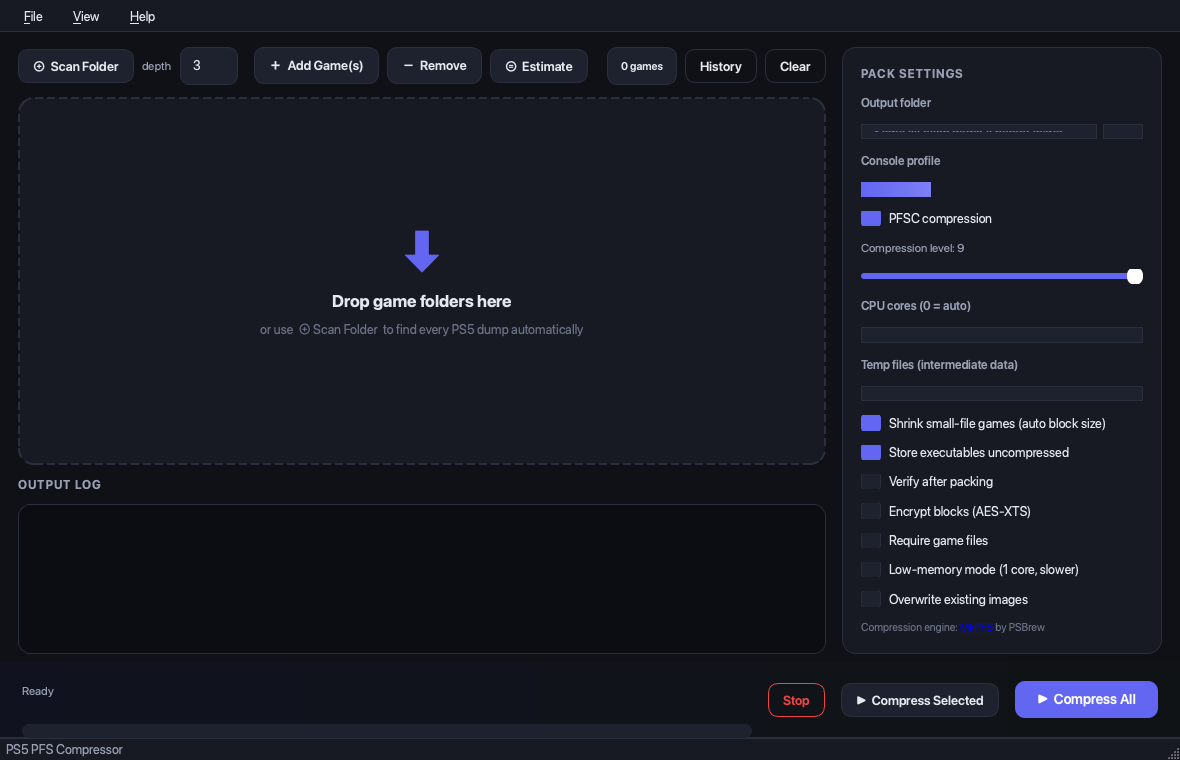
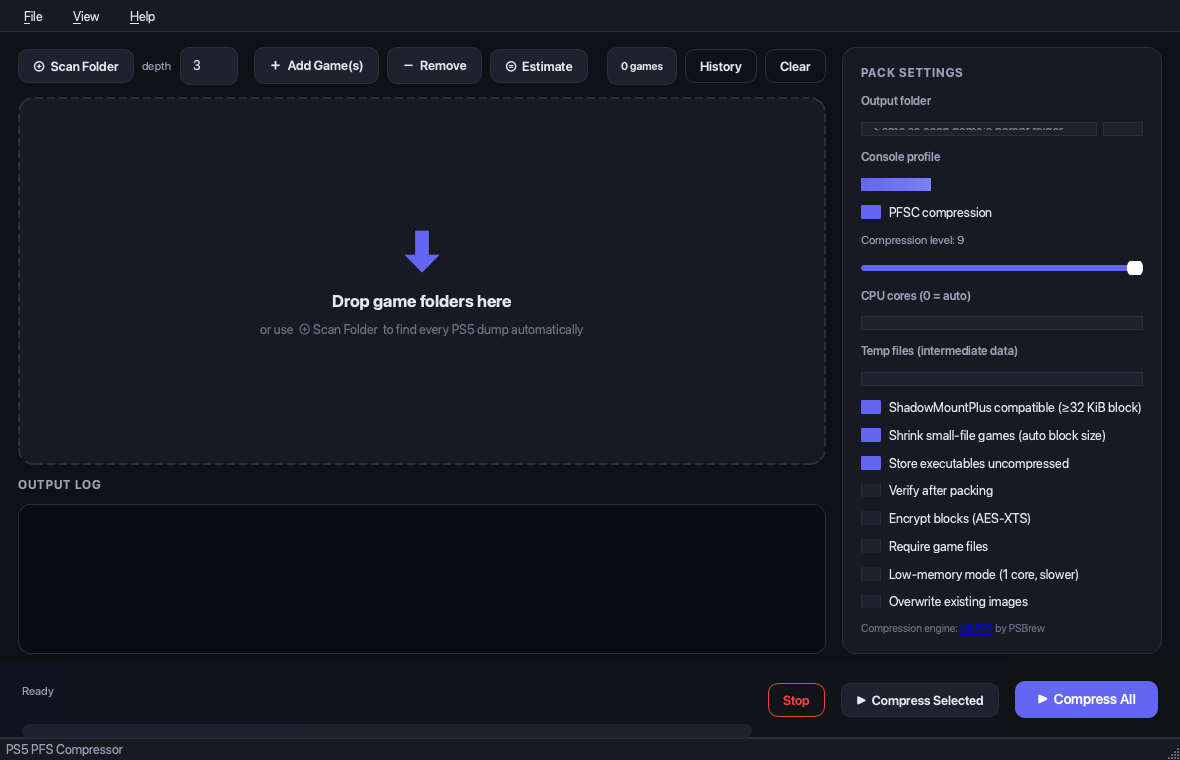
PS5 compressor: add ShadowMountPlus-compatible option (on by default)
ShadowMountPlus rejects PFS images whose cluster size is below its
configured lvd_pfs_sector_size (recommended default 32768). Auto-fit can
pick a smaller block (4 KiB for tiny-file games like Minecraft), which
needs an autotune round-trip to mount.

- New "ShadowMountPlus compatible (>=32 KiB block)" checkbox, ON by
  default, forces a 32 KiB block so images mount cleanly under
  ShadowMountPlus. It overrides auto-fit (which is greyed out while on).
- PackSettings.shadowmount_compatible + build_command block-size logic.
- Estimator respects the block floor so the pre-flight size matches what
  SMP mode actually produces; the auto-fit nudge is suppressed in SMP mode.
- Verified end-to-end on the real Minecraft dump: 32768-block image,
  PS5 profile, 0 errors/warnings, correct root layout.
- README, release notes and compressor screenshot updated. Version unchanged.

Changed region(s): [[0.7322, 0.4539, 0.9763, 0.8474], [0.7322, 0.0908, 0.9763, 0.4237]]

diff --git a/playstation_studio/ps5_compressor/compressor_tab.py b/playstation_studio/ps5_compressor/compressor_tab.py
@@ -20,7 +20,7 @@ from PySide6.QtWidgets import (
 
 from .estimate import Estimate, EstimatorThread, compression_rating
 from . import history
-from .jobs import Job, PackSettings, Status, find_game_dirs
+from .jobs import Job, PackSettings, Status, find_game_dirs, SHADOWMOUNT_MIN_BLOCK
 from .runner import BatchRunner
 from ..shared.config import config
 from ..shared.diskutil import (
@@ -272,11 +272,25 @@ class Ps5CompressTab(QWidget):
         self._sync_temp_row()
 
         # toggles
+        # ShadowMountPlus compatibility: force a >= 32 KiB block so images mount
+        # cleanly under ShadowMountPlus. On by default.
+        self.cb_shadowmount = QCheckBox("ShadowMountPlus compatible (≥32 KiB block)")
+        self.cb_shadowmount.setToolTip(
+            "Build PFS images that mount cleanly under ShadowMountPlus.\n"
+            f"Forces a {SHADOWMOUNT_MIN_BLOCK // 1024} KiB block size (ShadowMountPlus "
+            "rejects smaller clusters on its default config).\n"
+            "Turn off only if you don't use ShadowMountPlus and want the smallest "
+            "possible image for games with thousands of tiny files.")
+        self.cb_shadowmount.setChecked(
+            bool(config.get(CFG, "shadowmount_compatible", True)))
+        self.cb_shadowmount.toggled.connect(self._on_shadowmount_toggle)
+
         self.cb_autoblock = QCheckBox("Shrink small-file games (auto block size)")
-        self.cb_autoblock.setToolTip(
+        self._autoblock_tip = (
             "Pick the block size that minimises per-file padding. Games with "
             "thousands of tiny files (e.g. Minecraft) can otherwise pack LARGER "
             "than the original because each file is padded to a 64 KiB block.")
+        self.cb_autoblock.setToolTip(self._autoblock_tip)
         self.cb_autoblock.setChecked(bool(config.get(CFG, "auto_block_size", True)))
         self.cb_autoblock.toggled.connect(
             lambda on: config.set(CFG, "auto_block_size", on))
@@ -292,10 +306,12 @@ class Ps5CompressTab(QWidget):
         self.cb_lowmem.toggled.connect(
             lambda on: config.set(CFG, "low_memory", on))
         self.cb_overwrite = QCheckBox("Overwrite existing images")
-        for cb in (self.cb_autoblock, self.cb_skipexec, self.cb_verify,
-                   self.cb_encrypt, self.cb_require, self.cb_lowmem,
-                   self.cb_overwrite):
+        for cb in (self.cb_shadowmount, self.cb_autoblock, self.cb_skipexec,
+                   self.cb_verify, self.cb_encrypt, self.cb_require,
+                   self.cb_lowmem, self.cb_overwrite):
             lay.addWidget(cb)
+        # auto-fit is overridden while ShadowMountPlus mode is on
+        self._on_shadowmount_toggle(self.cb_shadowmount.isChecked())
 
         lay.addStretch(1)
         credit = QLabel('Compression engine: <a href="https://github.com/PSBrew/MkPFS">'
@@ -529,7 +545,12 @@ class Ps5CompressTab(QWidget):
         self.btn_estimate.setEnabled(False)
         self.status_lbl.setText("Estimating sizes…")
         self._log("Estimating packed sizes (reading file sizes only)…\n")
-        self._estimator = EstimatorThread([j.source_dir for j in self.jobs], self)
+        # In ShadowMountPlus mode the block can't go below 32 KiB, so estimate
+        # the footprint the pack will actually produce.
+        min_block = (SHADOWMOUNT_MIN_BLOCK if self.cb_shadowmount.isChecked()
+                     else 4096)
+        self._estimator = EstimatorThread(
+            [j.source_dir for j in self.jobs], min_block, self)
         self._estimator.one.connect(self._on_estimate_one)
         self._estimator.finished_all.connect(self._on_estimate_done)
         self._estimator.start()
@@ -559,8 +580,10 @@ class Ps5CompressTab(QWidget):
         self.status_lbl.setText(msg)
         self._log(msg + ".\n")
         self._refresh_stats()
-        # Nudge the user to keep auto-fit on when it clearly helps.
-        if bloat and not self.cb_autoblock.isChecked():
+        # Nudge the user to keep auto-fit on when it clearly helps. Skip the
+        # nudge in ShadowMountPlus mode, where the block is intentionally fixed.
+        if bloat and not self.cb_autoblock.isChecked() \
+                and not self.cb_shadowmount.isChecked():
             names = ", ".join(self._job_for(e).name for e in bloat[:4])
             choice = QMessageBox.question(
                 self, "Enable auto block size?",
@@ -619,6 +642,7 @@ class Ps5CompressTab(QWidget):
             low_memory=self.cb_lowmem.isChecked(),
             overwrite=self.cb_overwrite.isChecked(),
             auto_block_size=self.cb_autoblock.isChecked(),
+            shadowmount_compatible=self.cb_shadowmount.isChecked(),
             temp_mode=self.temp_mode.currentData() or TEMP_MODE_APP,
             temp_path=self.temp_path.text().strip(),
         )
@@ -921,6 +945,16 @@ class Ps5CompressTab(QWidget):
     def _on_compress_toggle(self, on: bool) -> None:
         self.level.setEnabled(on)
         self.lbl_level.setEnabled(on)
+
+    def _on_shadowmount_toggle(self, on: bool) -> None:
+        config.set(CFG, "shadowmount_compatible", on)
+        # While SMP mode is on the block size is fixed >= 32 KiB, so auto-fit
+        # has no effect — disable it and explain why.
+        self.cb_autoblock.setEnabled(not on)
+        self.cb_autoblock.setToolTip(
+            f"Overridden while 'ShadowMountPlus compatible' is on "
+            f"(block fixed at {SHADOWMOUNT_MIN_BLOCK // 1024} KiB)."
+            if on else self._autoblock_tip)
 
     # ---------------------------------------------------------- drag/drop
     def _set_drop_active(self, active: bool) -> None:

diff --git a/playstation_studio/ps5_compressor/jobs.py b/playstation_studio/ps5_compressor/jobs.py
@@ -55,6 +55,12 @@ def mkpfs_command() -> list[str]:
 GAME_MARKERS = ("eboot.bin", "sce_sys")
 PFS_EXTENSIONS = (".ffpfs", ".ffpfsc", ".pfs", ".dat", ".bin")
 
+# ShadowMountPlus (https://github.com/drakmor/ShadowMountPlus) rejects a PFS
+# image whose cluster size is below the configured lvd_pfs_sector_size, whose
+# recommended default is 32768. Building with a >= 32 KiB block makes images
+# mount cleanly on its default config without an autotune round-trip.
+SHADOWMOUNT_MIN_BLOCK = 32768
+
 
 def dir_is_game(path: Path) -> bool:
     """True when *path* directly contains a game-dump marker."""
@@ -117,6 +123,7 @@ class PackSettings:
     low_memory: bool = False        # cap to 1 worker to minimise peak RAM
     overwrite: bool = False         # re-pack even if output exists
     auto_block_size: bool = True    # pick block size that minimises padding
+    shadowmount_compatible: bool = True  # force block >= 32 KiB for ShadowMountPlus
     temp_mode: str = "app"          # app | custom | game (see shared.paths)
     temp_path: str = ""             # custom temp folder when temp_mode == custom
 
@@ -198,10 +205,16 @@ class Job:
             cmd += ["--compression-level", str(settings.compression_level)]
         if settings.skip_executable_compression:
             cmd += ["--skip-executable-compression"]
-        # Games with many tiny files waste huge space padding each one up to the
-        # 64 KiB block; "auto-fit" picks the block size that minimises that
-        # padding so the image doesn't end up larger than the source.
-        if settings.auto_block_size:
+        # Block size selection:
+        # - ShadowMountPlus mode forces a >= 32 KiB block so the image mounts
+        #   cleanly under ShadowMountPlus (overrides auto-fit, which could pick a
+        #   smaller block that SMP would reject/autotune).
+        # - Otherwise "auto-fit" picks the block size that minimises per-file
+        #   padding (games with thousands of tiny files would otherwise pack
+        #   *larger* than the source at the 64 KiB default).
+        if settings.shadowmount_compatible:
+            cmd += ["--block-size", str(SHADOWMOUNT_MIN_BLOCK)]
+        elif settings.auto_block_size:
             cmd += ["--block-size", "auto-fit"]
         # Direct intermediate data to the chosen temp location (fast/empty disk
         # or beside the game) instead of a possibly full/slow system temp.

diff --git a/playstation_studio/ps5_compressor/estimate.py b/playstation_studio/ps5_compressor/estimate.py
@@ -56,8 +56,13 @@ def _aligned(sizes: list[int], block: int) -> int:
     return sum((math.ceil(s / block) * block) if s > 0 else block for s in sizes)
 
 
-def estimate_footprint(source_dir: str) -> Estimate:
-    """Predict the PFS footprint of *source_dir* (stat-only, no file reads)."""
+def estimate_footprint(source_dir: str, min_block: int = AUTO_FIT_CANDIDATES[0]) -> Estimate:
+    """Predict the PFS footprint of *source_dir* (stat-only, no file reads).
+
+    ``min_block`` floors the block sizes considered for the "best" footprint, so
+    ShadowMountPlus mode (>= 32 KiB block) estimates the size it will actually
+    produce rather than a smaller auto-fit block it will not use.
+    """
     sizes: list[int] = []
     try:
         for root, _dirs, files in os.walk(source_dir):
@@ -70,8 +75,9 @@ def estimate_footprint(source_dir: str) -> Estimate:
         return Estimate(source_dir=source_dir, ok=False)
     est = Estimate(source_dir=source_dir, files=len(sizes), raw=sum(sizes))
     est.foot_default = _aligned(sizes, DEFAULT_BLOCK)
-    best = min(AUTO_FIT_CANDIDATES,
-               key=lambda b: (_aligned(sizes, b), -b))
+    candidates = tuple(b for b in AUTO_FIT_CANDIDATES if b >= min_block) \
+        or (AUTO_FIT_CANDIDATES[-1],)
+    best = min(candidates, key=lambda b: (_aligned(sizes, b), -b))
     est.best_block = best
     est.foot_best = _aligned(sizes, best)
     return est
@@ -83,9 +89,11 @@ class EstimatorThread(QThread):
     one = Signal(int, object)      # index, Estimate
     finished_all = Signal()
 
-    def __init__(self, sources: list[str], parent=None) -> None:
+    def __init__(self, sources: list[str], min_block: int = AUTO_FIT_CANDIDATES[0],
+                 parent=None) -> None:
         super().__init__(parent)
         self.sources = sources
+        self.min_block = min_block
         self._running = True
 
     def stop(self) -> None:
@@ -95,7 +103,7 @@ class EstimatorThread(QThread):
         for i, src in enumerate(self.sources):
             if not self._running:
                 break
-            self.one.emit(i, estimate_footprint(src))
+            self.one.emit(i, estimate_footprint(src, self.min_block))
         self.finished_all.emit()
 
 

diff --git a/README.md b/README.md
@@ -78,7 +78,8 @@ end users who don't have Python installed.
 - 💿 **PKG manager** — sort by Games / Updates / DLC, view cover art and metadata,
   bulk-rename, export to Excel, and remote-install.
 - 🗜️ **PS5 PFS compressor** — batch compression with pre-flight size estimates,
-  auto block-sizing, compression ratings, and **Compress All or Compress Selected**.
+  auto block-sizing, compression ratings, **Compress All or Compress Selected**, and
+  **ShadowMountPlus-compatible** images (≥32 KiB block) on by default.
 - 🎨 **Modern dark theme** — a single, carefully tuned palette that's consistent across
   every window, table and dialog.
 - 💾 **Persistent settings** — IPs, ports and folder paths are remembered between launches.
@@ -512,6 +513,9 @@ The first official public release of PlayStation Studio.
 **PS5 PFS Compressor**
 - Batch compression via the bundled MkPFS engine with per-game progress and ratings.
 - **Compress All** or **Compress Selected** — pack the whole list or just the games you pick.
+- **ShadowMountPlus compatible** (on by default) — builds images with a ≥32 KiB block so
+  they mount cleanly under [ShadowMountPlus](https://github.com/drakmor/ShadowMountPlus);
+  turn it off for the smallest possible image on games with thousands of tiny files.
 - Pre-flight size estimate, auto block-sizing for small-file games, and a history viewer.
 - Configurable temp folder and slow-source (network / iCloud) warnings.
 

diff --git a/docs/RELEASE_NOTES_v1.0.0.md b/docs/RELEASE_NOTES_v1.0.0.md
@@ -54,6 +54,8 @@ standalone app for Windows and macOS — no Python install required.
 ### PS5 PFS Compressor
 - Batch compression via the bundled MkPFS engine, with per-game progress and ratings.
 - **Compress All** or **Compress Selected** — pack the whole queue or just the picked games.
+- **ShadowMountPlus compatible** by default — images use a >= 32 KiB block so they mount
+  cleanly under ShadowMountPlus; toggle off for the smallest image on tiny-file games.
 - Pre-flight size estimate, auto block-sizing for small-file games, persistent history.
 - Configurable temp folder; warnings for slow sources (network shares, iCloud).
 